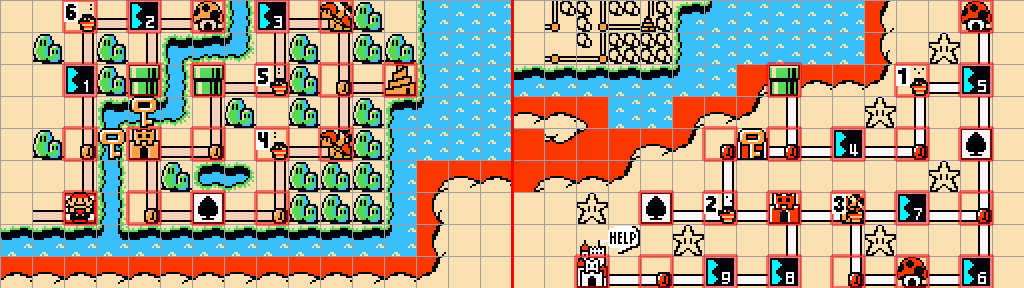
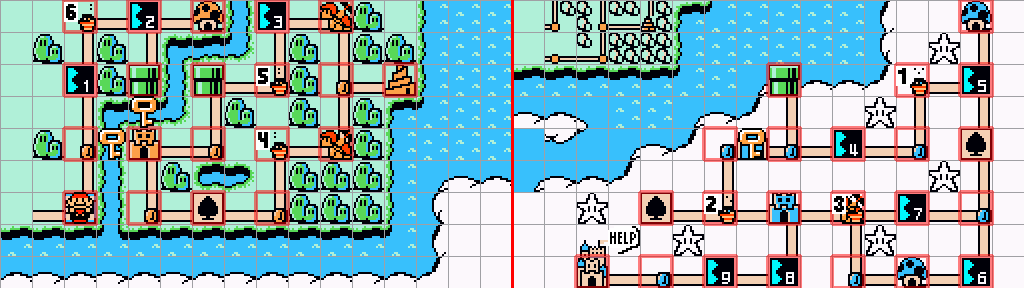
also parse world palette and color tile picker accordingly

diff --git a/smb3parse/data_points/world_map_data.py b/smb3parse/data_points/world_map_data.py
@@ -10,6 +10,7 @@ from smb3parse.constants import (
     Map_Airship_Dest_XSets,
     Map_Airship_Dest_YSets,
     Map_Airship_Travel_BaseIdx,
+    Map_Tile_ColorSets,
     Map_Y_Starts,
     OFFSET_SIZE,
     World_Map_Max_PanR,
@@ -42,6 +43,9 @@ class WorldMapData(_IndexedMixin, DataPoint):
         self.tile_data_offset_address = 0x0
 
         self.tile_data = bytearray()
+
+        self.palette_index = 0
+        self.palette_index_address = 0x0
 
         self.structure_data_offset = 0x0
         self.structure_data_offset_address = 0x0
@@ -94,6 +98,8 @@ class WorldMapData(_IndexedMixin, DataPoint):
         self.tile_data_offset_address = LAYOUT_LIST_OFFSET + OFFSET_SIZE * self.index
         self.structure_data_offset_address = STRUCTURE_DATA_OFFSETS + OFFSET_SIZE * self.index
 
+        self.palette_index_address = Map_Tile_ColorSets + self.index
+
         self.y_pos_list_start_address = LEVEL_Y_POS_LISTS + OFFSET_SIZE * self.index
         self.x_pos_list_start_address = LEVEL_X_POS_LISTS + OFFSET_SIZE * self.index
 
@@ -117,6 +123,8 @@ class WorldMapData(_IndexedMixin, DataPoint):
     def read_values(self):
         self.tile_data_offset = self._rom.little_endian(self.tile_data_offset_address)
         self.tile_data = self._rom.read_until(self.layout_address, WORLD_MAP_LAYOUT_DELIMITER)
+
+        self.palette_index = self._rom.int(self.palette_index_address)
 
         self.structure_data_offset = self._rom.little_endian(self.structure_data_offset_address)
 
@@ -172,6 +180,8 @@ class WorldMapData(_IndexedMixin, DataPoint):
 
         # tile_data
         rom.write(self.layout_address, self.tile_data + WORLD_MAP_LAYOUT_DELIMITER)
+
+        rom.write(self.palette_index_address, self.palette_index)
 
         # structure_data_offset
         rom.write_little_endian(self.structure_data_offset_address, self.structure_data_offset)

diff --git a/scribe/gui/tool_window/block_picker.py b/scribe/gui/tool_window/block_picker.py
@@ -3,6 +3,7 @@ from PySide6.QtGui import QMouseEvent, QPaintEvent, QPainter, Qt
 from PySide6.QtWidgets import QHBoxLayout, QSizePolicy, QVBoxLayout, QWidget
 
 from foundry.game.gfx.drawable.Block import Block, get_worldmap_tile
+from foundry.game.level.LevelRef import LevelRef
 from foundry.gui.BlockViewer import BlockBank
 from smb3parse.levels import WORLD_MAP_BLANK_TILE_ID
 
@@ -87,12 +88,16 @@ class BlockList(QWidget):
 class BlockPicker(QWidget):
     tile_selected: SignalInstance = Signal(int)
 
-    def __init__(self):
+    def __init__(self, level_ref: LevelRef):
         super(BlockPicker, self).__init__()
 
         self.setLayout(QVBoxLayout())
 
-        self.block_bank = BlockBank(self)
+        self.level_ref = level_ref
+
+        self.block_bank = BlockBank(self, palette_group=level_ref.level.data.palette_index)
+        self.level_ref.level_changed.connect(self._update_block_bank_palette_group)
+
         self.block_list = BlockList()
 
         self.block_bank.clicked.connect(self.block_list.set_current_block)
@@ -103,3 +108,8 @@ class BlockPicker(QWidget):
 
     def set_zoom(self, zoom_level):
         self.block_bank.zoom = zoom_level
+
+    def _update_block_bank_palette_group(self):
+        self.block_bank.palette_group = self.level_ref.level.data.palette_index
+
+        self.block_bank.update()

diff --git a/foundry/game/gfx/objects/world_map/map_tile.py b/foundry/game/gfx/objects/world_map/map_tile.py
@@ -1,6 +1,6 @@
 from typing import Tuple
 
-from foundry.game.gfx.drawable.Block import get_worldmap_tile
+from foundry.game.gfx.drawable.Block import Block, get_worldmap_tile
 from foundry.game.gfx.objects.world_map.map_object import MapObject
 from smb3parse.constants import TILE_NAMES
 from smb3parse.data_points import Position
@@ -8,7 +8,7 @@ from smb3parse.levels import WORLD_MAP_SCREEN_SIZE, WORLD_MAP_SCREEN_WIDTH
 
 
 class MapTile(MapObject):
-    def __init__(self, block, pos: Position):
+    def __init__(self, block: Block, pos: Position):
         super(MapTile, self).__init__()
 
         self.pos = pos
@@ -49,7 +49,7 @@ class MapTile(MapObject):
         return self.pos.xy
 
     def change_type(self, new_type):
-        self.block = get_worldmap_tile(new_type)
+        self.block = get_worldmap_tile(new_type, self.block.palette_group.index)
 
         self.type = self.block.index
 

diff --git a/foundry/game/gfx/drawable/Block.py b/foundry/game/gfx/drawable/Block.py
@@ -33,9 +33,12 @@ def get_tile(index, palette_group, palette_index, graphics_set, mirrored=False):
     return Tile(index, palette_group, palette_index, graphics_set, mirrored)
 
 
-def get_worldmap_tile(block_index: int):
+def get_worldmap_tile(block_index: int, palette_index=0):
     return get_block(
-        block_index, load_palette_group(WORLD_MAP_OBJECT_SET, 0), GraphicsSet(0), ROM.get_tsa_data(WORLD_MAP_OBJECT_SET)
+        block_index,
+        load_palette_group(WORLD_MAP_OBJECT_SET, palette_index),
+        GraphicsSet(0),
+        ROM.get_tsa_data(WORLD_MAP_OBJECT_SET),
     )
 
 
@@ -64,6 +67,7 @@ class Block:
         self.index = block_index
 
         palette_index = (block_index & 0b1100_0000) >> 6
+        self.palette_group = palette_group
 
         if graphics_set.number == CLOUDY_GRAPHICS_SET:
             self.bg_color = NESPalette[palette_group[palette_index][2]]

diff --git a/foundry/gui/WorldView.py b/foundry/gui/WorldView.py
@@ -101,7 +101,7 @@ class WorldView(MainView):
             tile_pixmap = QPixmap(QSize(self.block_length, self.block_length))
 
             painter = QPainter(tile_pixmap)
-            get_worldmap_tile(self._tile_to_put).draw(painter, 0, 0, self.block_length)
+            get_worldmap_tile(self._tile_to_put, self.world.data.palette_index).draw(painter, 0, 0, self.block_length)
             painter.end()
 
             self.setCursor(QCursor(tile_pixmap))

diff --git a/foundry/game/level/WorldMap.py b/foundry/game/level/WorldMap.py
@@ -40,7 +40,7 @@ class WorldMap(LevelLike):
         self._signal_emitter = WorldSignaller()
 
         self.graphics_set = GraphicsSet(OVERWORLD_GRAPHIC_SET)
-        self.palette_group = load_palette_group(WORLD_MAP_OBJECT_SET, 0)
+        self.palette_group = load_palette_group(WORLD_MAP_OBJECT_SET, self.data.palette_index)
 
         self.object_set = WORLD_MAP_OBJECT_SET
         self.tsa_data = ROM.get_tsa_data(self.object_set)

diff --git a/scribe/gui/tool_window/tool_window.py b/scribe/gui/tool_window/tool_window.py
@@ -29,7 +29,7 @@ class ToolWindow(QMainWindow):
 
         self.tabbed_widget = QTabWidget()
 
-        self.tile_picker = BlockPicker()
+        self.tile_picker = BlockPicker(level_ref)
         self.tile_picker.tile_selected.connect(self.tile_selected.emit)
 
         self.level_pointer_list = LevelPointerList(self, self.level_ref)
